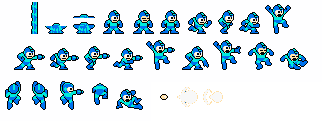
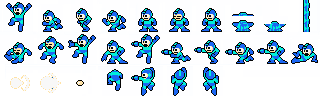
feature: change image

diff --git a/rockman-proto/src/mod/rockman/resources/index.js b/rockman-proto/src/mod/rockman/resources/index.js
@@ -50,10 +50,10 @@ export const metadata = {
 	},
 	Rockman: {
 		name: `${cwd}Rockman.png`,
-		width: 40,
-		height: 40,
-		offsetX: -4,
-		offsetY: -8
+		width: 32,
+		height: 32,
+		offsetX: 0,
+		offsetY: 0
 	},
 	SuperArm: {
 		name: `${cwd}SuperArm.png`,
